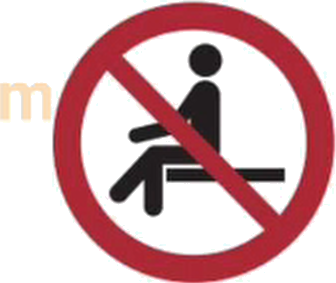
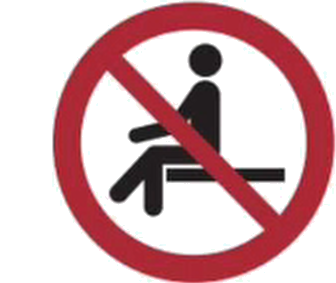
SET05: remove stray 'm' watermark from Q10 option 4

Changed region(s): [[0.0, 0.2827, 0.1488, 0.4523]]

diff --git a/ubt-new/sets/2025_SET05/data.js b/ubt-new/sets/2025_SET05/data.js
@@ -1,1 +1,1 @@
-UBT.set({"tag":"2025_SET05","title":"វិញ្ញាសាទី ៥","questions":[{"n":1,"prompt":"다음 그림을 보고 맞는 단어나 문장을 고르십시오.","body":"","options":[{"kind":"text","text":"상하입니다.","art":null},{"kind":"text","text":"좌우입니다.","art":null},{"kind":"text","text":"회전입니다.","art":null},{"kind":"text","text":"전원입니다.","art":null}],"a":3,"art":"q/01_stem.png?v=1ccdb0bb5de6d5ea"},{"n":2,"prompt":"다음 그림을 보고 맞는 단어나 문장을 고르십시오.","body":"","options":[{"kind":"text","text":"만두를 끓이고 있습니다.","art":null},{"kind":"text","text":"만두를 굽고 있습니다.","art":null},{"kind":"text","text":"만두를 튀기고 있습니다.","art":null},{"kind":"text","text":"만두를 찌고 있습니다.","art":null}],"a":4,"art":"q/02_stem.png?v=2c8dc11f68e5629e"},{"n":3,"prompt":"다음 질문에 답하십시오.","body":"다음 단어와 관계있는 것은 고르십시오.\n레버","options":[{"kind":"text","text":"밀다","art":null},{"kind":"text","text":"믿다","art":null},{"kind":"text","text":"쌓다","art":null},{"kind":"text","text":"뽑다","art":null}],"a":1,"art":null},{"n":4,"prompt":"다음 질문에 답하십시오.","body":"다음 단어의 비슷한말은 무엇입니까 ?\n투입하다","options":[{"kind":"text","text":"담다","art":null},{"kind":"text","text":"제거하다","art":null},{"kind":"text","text":"놓다","art":null},{"kind":"text","text":"종합하다","art":null}],"a":1,"art":null},{"n":5,"prompt":"빈칸에 들아갈 가장 알맞은 것을 고르십시오.","body":"작업장에서 발생하는 폐기물은 환경을______시키고 근로자\n의 건강을 해치는 원인이 됩니다.","options":[{"kind":"text","text":"질식","art":null},{"kind":"text","text":"중독","art":null},{"kind":"text","text":"오염","art":null},{"kind":"text","text":"경고","art":null}],"a":3,"art":null},{"n":6,"prompt":"빈칸에 들아갈 가장 알맞은 것을 고르십시오.","body":"가: 이 호피스텔은 방이 좁네요.\n나: 네 방은______월세가 싸요.","options":[{"kind":"text","text":"좁지만","art":null},{"kind":"text","text":"줍고","art":null},{"kind":"text","text":"좁을때","art":null},{"kind":"text","text":"줍거나","art":null}],"a":1,"art":null},{"n":7,"prompt":"빈칸에 들아갈 가장 알맞은 것을 고르십시오.","body":"토요일과 일요일에는 도로가 항상 복잡합니다. 주말에 약속이\n있다면 약속 시간에 늦지 않도록______출발하는 것이 좋\n습니다.","options":[{"kind":"text","text":"일찍","art":null},{"kind":"text","text":"이따가","art":null},{"kind":"text","text":"이미","art":null},{"kind":"text","text":"나중에","art":null}],"a":1,"art":null},{"n":8,"prompt":"빈칸에 들아갈 가장 알맞은 것을 고르십시오.","body":"가: 왜 모임에 안 왔어요? 모두가 기다리고 있었어요.\n나: 죄송해요. 감기가 너무______집에서 쉬었어요.","options":[{"kind":"text","text":"걸려서","art":null},{"kind":"text","text":"심해서","art":null},{"kind":"text","text":"걸리고","art":null},{"kind":"text","text":"심하고","art":null}],"a":2,"art":null},{"n":9,"prompt":"다음 질문에 답하십시오.","body":"밑줄 친 부분이 맞는 문장을 고르십시오.","options":[{"kind":"text","text":"표면의 물기를 주웠어요.","art":null,"marks":[{"type":"underline","start":8,"end":12}]},{"kind":"text","text":"선체 표면의 녹을 제거했어요.","art":null,"marks":[{"type":"underline","start":10,"end":15}]},{"kind":"text","text":"선체 내부의 온도를 처리했어요.","art":null,"marks":[{"type":"underline","start":11,"end":16}]},{"kind":"text","text":"오늘 사용할 도료를 조립했어요.","art":null,"marks":[{"type":"underline","start":11,"end":16}]}],"a":2,"art":null},{"n":10,"prompt":"다음 질문에 답하십시오.","body":"다음 내용과 관계있는 그림을 고르십시오.\n의자를 앞뒤로 흔들지 마세요.","options":[{"kind":"picture","text":"","art":"q/10_o1.png?v=43673204ffe30051"},{"kind":"picture","text":"","art":"q/10_o2.png?v=a80eee55736e943e"},{"kind":"picture","text":"","art":"q/10_o3.png?v=2d45663e3ec6cb6b"},{"kind":"picture","text":"","art":"q/10_o4.png?v=480ce330bec04488"}],"a":2,"art":null},{"n":11,"prompt":"다음 질문에 답하십시오.","body":"다음 글을 읽고 내용과 같은 것을 고르십시오.","options":[{"kind":"text","text":"유럽에 가는 여행자들이 가장 적습니다.","art":null},{"kind":"text","text":"미국에 가는 사람보다 일본에 가는 사람들이 많습니 다","art":null},{"kind":"text","text":"중앙아시아에 가는 사람들이 가장 많습니다.","art":null},{"kind":"text","text":"중국에 여행하는 관광객이 별로 없습니다.","art":null}],"a":2,"art":"q/11_stem.png?v=0d5fe5fea488ee6d"},{"n":12,"prompt":"다음 질문에 답하십시오.","body":"다음 글을 읽고 내용과 같은 것을 고르십시오.","options":[{"kind":"text","text":"2023 년에도 노동자는 회사를 바꾸지 않는다.","art":null},{"kind":"text","text":"두 번째로 많은 직원이 회사를 바꾸는 것은 2022 년입 니다.","art":null},{"kind":"text","text":"2020 년과 2022 년에 회사를 바꾸는 직원의 비율은 동일합니다.","art":null},{"kind":"text","text":"2021 년에 회사를 바꾸는 근로자의 수는 2023 년보 다 많습니다.","art":null}],"a":3,"art":"q/12_stem.png?v=c9c6dbfaf3aeee97"},{"n":13,"prompt":"빈칸에 들어갈 가장 알맞은 것을 고르십시오.","body":"친구가 근로 계약이 끝나서 내일 고향에 돌아간다고 해요. 그래서 오늘 아침에 친구에게 마지막으로__________.","options":[{"kind":"text","text":"축하했어요.","art":null},{"kind":"text","text":"칭찬했어요.","art":null},{"kind":"text","text":"환승했어요.","art":null},{"kind":"text","text":"환송했어요.","art":null}],"a":4,"art":null},{"n":14,"prompt":"빈칸에 들어갈 가장 알맞은 것을 고르십시오.","body":"지하철에서 내릴때 지갑을 안에 두고 내린 것 같습니다. 지금 바로 분실물 센터에 전화해서__________.","options":[{"kind":"text","text":"문이 한 것 같습니다.","art":null},{"kind":"text","text":"문의 하려고 합니다.","art":null},{"kind":"text","text":"선택한 것 같습니다.","art":null},{"kind":"text","text":"선택 하려고 합니다","art":null}],"a":2,"art":null},{"n":15,"prompt":"다음 글을 읽고 무엇에 대한 글인지 고르십시오.","body":"플라스틱과 고무 성형은 다양한 제품을 제조하는 데 사용되는 중요한 공정입니다. 이 공정은 원료를 원하는 형태로 가공하여 최종 제품을 만들어내는 과정을 포함하며, 자동차 부품, 전자기기, 의료기기, 가정용품 등 다양한 산업 분야에 활용됩니다.","options":[{"kind":"text","text":"플라스틱과 고무 성형 차이","art":null},{"kind":"text","text":"플라스틱과 고무 성형 공정","art":null},{"kind":"text","text":"플라스틱과 고무 종류","art":null},{"kind":"text","text":"플라스틱과 고무 폐기물","art":null}],"a":2,"art":null},{"n":16,"prompt":"다음 글을 읽고 무엇에 대한 글인지 고르십시오.","body":"호두는 세계적으로 사랑받는 견과류 중 하나로, 그 독특한 맛과 영양소 덕분에 건강식품으로 널리 알려져 있습니다. 호두는 신선도를 유지하기 위해 서늘하고 건조한 곳에 보관하는 것이 좋 수 있습니다. 하루 30g(약 한 줌)의 호두를 섭취하는 것이 적절하며, 과도한 섭취는 칼로리 섭취량 증가로 이어질 수 있으니 주의가 필요합니다.","options":[{"kind":"text","text":"좋은 호두 고르는 법","art":null},{"kind":"text","text":"호두를 보관 및 섭취 방법","art":null},{"kind":"text","text":"호두에 있는 영양","art":null},{"kind":"text","text":"호두를 먹는 의미","art":null}],"a":2,"art":null},{"n":17,"prompt":"다음 글을 읽고 내용과 같은 것을 고르십시오.","body":"그라인더는 빠른 회전으로 물체를 절단하거나 표면을 매끄럽게 가공하는 전동 공구입니다. 작업 시 큰 상해를 방지하려면 다음을 주의해야 합니다. 전원을 꽂기 전에 스위치가 꺼져 있는지 확인하고, 날 교체는 반드시 전원을 끈 상태에서 작업합니다. 보안경, 방진마스크 등을 착용하고 안전커버를 장착해야 하고 작업 주변을 정리하고 소화기를 비치합니다. 올바른 사용법을 익혀 안전을 지키세요.","options":[{"kind":"text","text":"그라인더 사용 전, 전원 스위치가 꺼져 있는지 확인해야 합니다.","art":null},{"kind":"text","text":"그라인더 작업 중에는 보호구를 착용할 필요가 없습니다.","art":null},{"kind":"text","text":"날 교체 시 전원을 켠 상태에서 빠르게 작업을 마무리해야 합니다.","art":null},{"kind":"text","text":"작업 중 주변 정리를 하지 않아도 화재 위험이 없습니다.","art":null}],"a":1,"art":null},{"n":18,"prompt":"다음 글을 읽고 내용과 같은 것을 고르십시오.","body":"친환경 에너지는 태양광, 풍력, 수력, 해양, 지열 에너지처럼 자연 자원을 활용해 지속 가능하게 생산되며, 환경 파괴와 온실가스 배출을 줄이는 데 기여합니다. 초기 설치 비용은 높지만, 운영 비용이 낮고 자원이 고갈되지 않는 장점이 있습니다. 세계 각국은 화석 연료 고갈과 기후 변화 문제 해결을 위해 친환경 에너지 개발에 힘쓰고 있으며, 이는 지속 가능한 미래를 만드는 열쇠가 됩니다.","options":[{"kind":"text","text":"친환경 에너지는 화석 연료보다 온실가스를 더 많이 배출합니다.","art":null},{"kind":"text","text":"풍력 에너지는 바람이 필요 없이 작동합니다.","art":null},{"kind":"text","text":"친환경 에너지는 자원이 금방 고갈되어 지속적으로 사 용할 수 없습니다.","art":null},{"kind":"text","text":"친환경 에너지는 자연 자원을 활용해 환경 영향을 최 소화합니다.","art":null}],"a":4,"art":null},{"n":19,"prompt":"다음 설명에 알맞은 어휘를 고르십시오.","body":"근로자가 업무 중 또는 업무와 관련된 활동을 수행하다가 발생한 부상, 질병, 장애 또는 사망과 같은 신체적ㆍ정신적 피해를 말합니다. 이는 주로 작업 환경의 위험 요소나 부적절한 안전 관리로 인해 발생하며, 근로자의 안전과 건강에 중대한 영향을 미칩니다.","options":[{"kind":"text","text":"자연 재해","art":null},{"kind":"text","text":"산업 재해","art":null},{"kind":"text","text":"교통 사고","art":null},{"kind":"text","text":"복합재해","art":null}],"a":2,"art":null},{"n":20,"prompt":"다음 설명에 알맞은 어휘를 고르십시오.","body":"사람의 나이가 70 세에 달하는 것을 의미합니다. 전통적으로 큰 의미를 가지는 나이로, 특히 동양 문화에서 중요한 생일 중 하나로 여겨집니다. 70 세는 인생의 중요한 이정표로, 건강과 삶의 경륜을 기념하는 행사나 축하가 이루어지기도 합니다.","options":[{"kind":"text","text":"돌","art":null},{"kind":"text","text":"환갑","art":null},{"kind":"text","text":"칠순","art":null},{"kind":"text","text":"백일","art":null}],"a":3,"art":null},{"n":21,"prompt":"다음을 듣고 빈칸에 알맞은 것을 고르십시오.","body":"______에 한국어를 공부해요.","options":[{"kind":"text","text":"목요일","art":null},{"kind":"text","text":"일요일","art":null},{"kind":"text","text":"토요일","art":null},{"kind":"text","text":"월요일","art":null}],"a":3,"m":"audio/21.mp3","art":null},{"n":22,"prompt":"다음을 듣고 빈칸에 알맞은 것을 고르십시오.","body":"2층으로______.","options":[{"kind":"text","text":"타야 돼요","art":null},{"kind":"text","text":"가야 돼요","art":null},{"kind":"text","text":"사야 돼요","art":null},{"kind":"text","text":"봐야 돼요","art":null}],"a":2,"m":"audio/22.mp3","art":null},{"n":23,"prompt":"들은 것을 고르십시오.","body":"","options":[{"kind":"picture","text":"","art":"q/23_o1.png?v=58da8dfcdaef4d6f"},{"kind":"picture","text":"","art":"q/23_o2.png?v=e5ba13e9fa9eb01b"},{"kind":"picture","text":"","art":"q/23_o3.png?v=ce2eb98abf6efd7f"},{"kind":"picture","text":"","art":"q/23_o4.png?v=6e4115b927020d3e"}],"a":2,"m":"audio/23.mp3","art":null},{"n":24,"prompt":"들은 것을 고르십시오.","body":"","options":[{"kind":"picture","text":"","art":"q/24_o1.png?v=313e7ccc109b0372"},{"kind":"picture","text":"","art":"q/24_o2.png?v=d543b7420a1df748"},{"kind":"picture","text":"","art":"q/24_o3.png?v=ca4f5af788d83626"},{"kind":"picture","text":"","art":"q/24_o4.png?v=8a860cefe05f6ae7"}],"a":1,"m":"audio/24.mp3","art":null},{"n":25,"prompt":"이것은 무엇입니까?","body":"","options":[{"kind":"spoken-answer","text":"항공권입니다.","art":null,"audio":"audio/25_o1.mp3?v=4899aa57aa785315"},{"kind":"spoken-answer","text":"상품권입니다.","art":null,"audio":"audio/25_o2.mp3?v=b5c57a9f6e8a4ce5"},{"kind":"spoken-answer","text":"여권입니다.","art":null,"audio":"audio/25_o3.mp3?v=9e3ebcb634800660"},{"kind":"spoken-answer","text":"식권입니다.","art":null,"audio":"audio/25_o4.mp3?v=ce5c76b304fb8a4e"}],"a":1,"art":"q/25_stem.png?v=f4158c25d33657ee","m":"audio/25.mp3"},{"n":26,"prompt":"여기는 어디입니까?","body":"","options":[{"kind":"spoken-answer","text":"교실입니다.","art":null,"audio":"audio/26_o1.mp3?v=7355700e6fdf5746"},{"kind":"spoken-answer","text":"거실입니다.","art":null,"audio":"audio/26_o2.mp3?v=ebe2c674b46fbab8"},{"kind":"spoken-answer","text":"객실입니다.","art":null,"audio":"audio/26_o3.mp3?v=d9c2886f2d64ff96"},{"kind":"spoken-answer","text":"침실입니다.","art":null,"audio":"audio/26_o4.mp3?v=030e4fca747626b4"}],"a":3,"art":"q/26_stem.png?v=6e01e79bab67ec58","m":"audio/26.mp3"},{"n":27,"prompt":"이 사람은 무엇을 하고 있습니까?","body":"","options":[{"kind":"spoken-answer","text":"양파를 썰고 있습니다.","art":null,"audio":"audio/27_o1.mp3?v=40e4b3744583661c"},{"kind":"spoken-answer","text":"양파를 씻고 있습니다.","art":null,"audio":"audio/27_o2.mp3?v=b73934b8b4ede396"},{"kind":"spoken-answer","text":"양파를 담고 있습니다.","art":null,"audio":"audio/27_o3.mp3?v=7b81e53ff57b8ff6"},{"kind":"spoken-answer","text":"양파를 볶고 있습니다.","art":null,"audio":"audio/27_o4.mp3?v=08a4864515491af2"}],"a":3,"art":"q/27_stem.png?v=bcd8b831238d37cc","m":"audio/27.mp3"},{"n":28,"prompt":"수분 크림이 얼마나 있습니까?","body":"","options":[{"kind":"spoken-answer","text":"세 개 있습니다.","art":null,"audio":"audio/28_o1.mp3?v=a76bf5f03a7689c2"},{"kind":"spoken-answer","text":"세 통 있습니다.","art":null,"audio":"audio/28_o2.mp3?v=763da3a7ed51db49"},{"kind":"spoken-answer","text":"네 개 있습니다.","art":null,"audio":"audio/28_o3.mp3?v=0baad4e0b451fbb0"},{"kind":"spoken-answer","text":"네 통 있습니다.","art":null,"audio":"audio/28_o4.mp3?v=8b57ff765e5bdf05"}],"a":2,"art":"q/28_stem.png?v=8a3083db312bf2eb","m":"audio/28.mp3"},{"n":29,"prompt":"꽃집은 어디에 있습니까?","body":"","options":[{"kind":"spoken-answer","text":"약국 아래에 있습니다.","art":null,"audio":"audio/29_o1.mp3?v=98038bcbbcd40fc6"},{"kind":"spoken-answer","text":"공원 옆에 있습니다.","art":null,"audio":"audio/29_o2.mp3?v=15fd23f99f16229d"},{"kind":"spoken-answer","text":"병원 위에 있습니다.","art":null,"audio":"audio/29_o3.mp3?v=9fc69150d8028d22"},{"kind":"spoken-answer","text":"은행 뒤에 있습니다.","art":null,"audio":"audio/29_o4.mp3?v=0e45da4cc5594b4e"}],"a":2,"art":"q/29_stem.png?v=d1aa11cf72e9528e","m":"audio/29.mp3"},{"n":30,"prompt":"다음을 듣고 질문에 알맞은 대답을 고르십시오.","body":"","options":[{"kind":"text","text":"그럼 일기예보를 확인해야 겠네요.","art":null},{"kind":"text","text":"그렇게라도 하는 게 더 좋을 것 같아요.","art":null},{"kind":"text","text":"체육 대회 장소를 정했어요?","art":null},{"kind":"text","text":"시간이 괜찮으니까 천천히 하면 돼요.","art":null}],"a":2,"m":"audio/30.mp3","art":null},{"n":31,"prompt":"다음을 듣고 질문에 알맞은 대답을 고르십시오.","body":"","options":[{"kind":"text","text":"한국에 오기 전에 한국말을 배웠어요.","art":null},{"kind":"text","text":"한국 회사에서 일하는 게 힘들었어요.","art":null},{"kind":"text","text":"양식장에서 새우를 길렀어요.","art":null},{"kind":"text","text":"고향에서는 작은 공장들이 많아요.","art":null}],"a":3,"m":"audio/31.mp3","art":null},{"n":32,"prompt":"다음을 듣고 질문에 알맞은 대답을 고르십시오.","body":"","options":[{"kind":"text","text":"맞아요, 인터넷이 있으면 편리할게요.","art":null},{"kind":"text","text":"맞아요, 저도 유투브를 보는 걸 좋아해요.","art":null},{"kind":"text","text":"맞아요, 유투브에서 볼 수 있어요.","art":null},{"kind":"text","text":"맞아요, 일하는 동안 유투브를 보지 마요.","art":null}],"a":2,"m":"audio/32.mp3","art":null},{"n":33,"prompt":"다음을 듣고 질문에 알맞은 대답을 고르십시오.","body":"","options":[{"kind":"text","text":"월급이 올라서 기분이 좋아요.","art":null},{"kind":"text","text":"기분이 안 좋아서 잠깐 쉬고 싶어요.","art":null},{"kind":"text","text":"일이 많아서 정신이 없어서요.","art":null},{"kind":"text","text":"좋은 표정이 보니까 마음이 편하네요.","art":null}],"a":3,"m":"audio/33.mp3","art":null},{"n":34,"prompt":"다음을 듣고 이어지는 말을 고르십시오.","body":"","options":[{"kind":"text","text":"안전모가 작아서 바꾸려고 해요.","art":null},{"kind":"text","text":"안전모를 착용했으니까 괜찮을게요.","art":null},{"kind":"text","text":"일이 끝난 후에는 안전모를 보관하세요.","art":null},{"kind":"text","text":"날씨가 너무 더워서 벗었습니다.","art":null}],"a":4,"m":"audio/34.mp3","art":null},{"n":35,"prompt":"다음을 듣고 이어지는 말을 고르십시오.","body":"","options":[{"kind":"text","text":"조금 늦게까지 퇴근했어요.","art":null},{"kind":"text","text":"밤에 일하다가 손이 다쳤어요.","art":null},{"kind":"text","text":"일주일 동안 주간 근무만 했어요.","art":null},{"kind":"text","text":"야간이 많아서 월급이 많아졌어요.","art":null}],"a":1,"m":"audio/35.mp3","art":null},{"n":36,"prompt":"잘 듣고 들은 내용과 관계있는 그림을 고르십시오.","body":"","options":[{"kind":"picture","text":"","art":"q/36_o1.png?v=fa3ec94c47e3156b"},{"kind":"picture","text":"","art":"q/36_o2.png?v=4ef9687e14b5035d"},{"kind":"picture","text":"","art":"q/36_o3.png?v=4ce2cfdc6fef8834"},{"kind":"picture","text":"","art":"q/36_o4.png?v=ade26638f48c2aae"}],"a":2,"m":"audio/36.mp3","art":null},{"n":37,"prompt":"잘 듣고 들은 내용과 관계있는 그림을 고르십시오.","body":"","options":[{"kind":"picture","text":"","art":"q/37_o1.png?v=e258bebd622cec2b"},{"kind":"picture","text":"","art":"q/37_o2.png?v=e33ee06c92a03829"},{"kind":"picture","text":"","art":"q/37_o3.png?v=897fa2c261f24252"},{"kind":"picture","text":"","art":"q/37_o4.png?v=4059f58cae850196"}],"a":2,"m":"audio/37.mp3","art":null},{"n":38,"prompt":"이야기를 듣고 질문에 알맞은 대답을 고르십시오.","body":"여자는 지금 왜 여기에 왔습니까?","options":[{"kind":"text","text":"아파트를 팔려고","art":null},{"kind":"text","text":"아파트를 구하려고","art":null},{"kind":"text","text":"아파트를 바꾸려고","art":null},{"kind":"text","text":"아파트를 사려고","art":null}],"a":2,"m":"audio/38.mp3","art":null},{"n":39,"prompt":"이야기를 듣고 질문에 알맞은 대답을 고르십시오.","body":"대화를 듣고 내용과 같은 것을 고르십시오.","options":[{"kind":"text","text":"남자는 혼자 기차를 탑니다.","art":null},{"kind":"text","text":"여자는 친구와 함께 부산에 갑니다.","art":null},{"kind":"text","text":"여자는 기차표가 다 팔렸다고 말했습니다.","art":null},{"kind":"text","text":"남자는 부산에 가는 기차표를 두 장 삽니다.","art":null}],"a":4,"m":"audio/39.mp3","art":null},{"n":40,"prompt":"이야기를 듣고 질문에 알맞은 대답을 고르십시오.","body":"대화를 듣고 내용과 같은 것을 고르십시오.","options":[{"kind":"text","text":"여자는 내일 면접을 봅니다.","art":null},{"kind":"text","text":"남자는 집에 좋은 구두가 많습니다.","art":null},{"kind":"text","text":"여자는 백화점에 가는 중이었습니다.","art":null},{"kind":"text","text":"남자는 면접에 신고 갈 구두를 살 겁니다.","art":null}],"a":4,"m":"audio/40.mp3","art":null}]});
+UBT.set({"tag":"2025_SET05","title":"វិញ្ញាសាទី ៥","questions":[{"n":1,"prompt":"다음 그림을 보고 맞는 단어나 문장을 고르십시오.","body":"","options":[{"kind":"text","text":"상하입니다.","art":null},{"kind":"text","text":"좌우입니다.","art":null},{"kind":"text","text":"회전입니다.","art":null},{"kind":"text","text":"전원입니다.","art":null}],"a":3,"art":"q/01_stem.png?v=1ccdb0bb5de6d5ea"},{"n":2,"prompt":"다음 그림을 보고 맞는 단어나 문장을 고르십시오.","body":"","options":[{"kind":"text","text":"만두를 끓이고 있습니다.","art":null},{"kind":"text","text":"만두를 굽고 있습니다.","art":null},{"kind":"text","text":"만두를 튀기고 있습니다.","art":null},{"kind":"text","text":"만두를 찌고 있습니다.","art":null}],"a":4,"art":"q/02_stem.png?v=2c8dc11f68e5629e"},{"n":3,"prompt":"다음 질문에 답하십시오.","body":"다음 단어와 관계있는 것은 고르십시오.\n레버","options":[{"kind":"text","text":"밀다","art":null},{"kind":"text","text":"믿다","art":null},{"kind":"text","text":"쌓다","art":null},{"kind":"text","text":"뽑다","art":null}],"a":1,"art":null},{"n":4,"prompt":"다음 질문에 답하십시오.","body":"다음 단어의 비슷한말은 무엇입니까 ?\n투입하다","options":[{"kind":"text","text":"담다","art":null},{"kind":"text","text":"제거하다","art":null},{"kind":"text","text":"놓다","art":null},{"kind":"text","text":"종합하다","art":null}],"a":1,"art":null},{"n":5,"prompt":"빈칸에 들아갈 가장 알맞은 것을 고르십시오.","body":"작업장에서 발생하는 폐기물은 환경을______시키고 근로자\n의 건강을 해치는 원인이 됩니다.","options":[{"kind":"text","text":"질식","art":null},{"kind":"text","text":"중독","art":null},{"kind":"text","text":"오염","art":null},{"kind":"text","text":"경고","art":null}],"a":3,"art":null},{"n":6,"prompt":"빈칸에 들아갈 가장 알맞은 것을 고르십시오.","body":"가: 이 호피스텔은 방이 좁네요.\n나: 네 방은______월세가 싸요.","options":[{"kind":"text","text":"좁지만","art":null},{"kind":"text","text":"줍고","art":null},{"kind":"text","text":"좁을때","art":null},{"kind":"text","text":"줍거나","art":null}],"a":1,"art":null},{"n":7,"prompt":"빈칸에 들아갈 가장 알맞은 것을 고르십시오.","body":"토요일과 일요일에는 도로가 항상 복잡합니다. 주말에 약속이\n있다면 약속 시간에 늦지 않도록______출발하는 것이 좋\n습니다.","options":[{"kind":"text","text":"일찍","art":null},{"kind":"text","text":"이따가","art":null},{"kind":"text","text":"이미","art":null},{"kind":"text","text":"나중에","art":null}],"a":1,"art":null},{"n":8,"prompt":"빈칸에 들아갈 가장 알맞은 것을 고르십시오.","body":"가: 왜 모임에 안 왔어요? 모두가 기다리고 있었어요.\n나: 죄송해요. 감기가 너무______집에서 쉬었어요.","options":[{"kind":"text","text":"걸려서","art":null},{"kind":"text","text":"심해서","art":null},{"kind":"text","text":"걸리고","art":null},{"kind":"text","text":"심하고","art":null}],"a":2,"art":null},{"n":9,"prompt":"다음 질문에 답하십시오.","body":"밑줄 친 부분이 맞는 문장을 고르십시오.","options":[{"kind":"text","text":"표면의 물기를 주웠어요.","art":null,"marks":[{"type":"underline","start":8,"end":12}]},{"kind":"text","text":"선체 표면의 녹을 제거했어요.","art":null,"marks":[{"type":"underline","start":10,"end":15}]},{"kind":"text","text":"선체 내부의 온도를 처리했어요.","art":null,"marks":[{"type":"underline","start":11,"end":16}]},{"kind":"text","text":"오늘 사용할 도료를 조립했어요.","art":null,"marks":[{"type":"underline","start":11,"end":16}]}],"a":2,"art":null},{"n":10,"prompt":"다음 질문에 답하십시오.","body":"다음 내용과 관계있는 그림을 고르십시오.\n의자를 앞뒤로 흔들지 마세요.","options":[{"kind":"picture","text":"","art":"q/10_o1.png?v=43673204ffe30051"},{"kind":"picture","text":"","art":"q/10_o2.png?v=a80eee55736e943e"},{"kind":"picture","text":"","art":"q/10_o3.png?v=2d45663e3ec6cb6b"},{"kind":"picture","text":"","art":"q/10_o4.png?v=26434cd5b51ebcef"}],"a":2,"art":null},{"n":11,"prompt":"다음 질문에 답하십시오.","body":"다음 글을 읽고 내용과 같은 것을 고르십시오.","options":[{"kind":"text","text":"유럽에 가는 여행자들이 가장 적습니다.","art":null},{"kind":"text","text":"미국에 가는 사람보다 일본에 가는 사람들이 많습니 다","art":null},{"kind":"text","text":"중앙아시아에 가는 사람들이 가장 많습니다.","art":null},{"kind":"text","text":"중국에 여행하는 관광객이 별로 없습니다.","art":null}],"a":2,"art":"q/11_stem.png?v=0d5fe5fea488ee6d"},{"n":12,"prompt":"다음 질문에 답하십시오.","body":"다음 글을 읽고 내용과 같은 것을 고르십시오.","options":[{"kind":"text","text":"2023 년에도 노동자는 회사를 바꾸지 않는다.","art":null},{"kind":"text","text":"두 번째로 많은 직원이 회사를 바꾸는 것은 2022 년입 니다.","art":null},{"kind":"text","text":"2020 년과 2022 년에 회사를 바꾸는 직원의 비율은 동일합니다.","art":null},{"kind":"text","text":"2021 년에 회사를 바꾸는 근로자의 수는 2023 년보 다 많습니다.","art":null}],"a":3,"art":"q/12_stem.png?v=c9c6dbfaf3aeee97"},{"n":13,"prompt":"빈칸에 들어갈 가장 알맞은 것을 고르십시오.","body":"친구가 근로 계약이 끝나서 내일 고향에 돌아간다고 해요. 그래서 오늘 아침에 친구에게 마지막으로__________.","options":[{"kind":"text","text":"축하했어요.","art":null},{"kind":"text","text":"칭찬했어요.","art":null},{"kind":"text","text":"환승했어요.","art":null},{"kind":"text","text":"환송했어요.","art":null}],"a":4,"art":null},{"n":14,"prompt":"빈칸에 들어갈 가장 알맞은 것을 고르십시오.","body":"지하철에서 내릴때 지갑을 안에 두고 내린 것 같습니다. 지금 바로 분실물 센터에 전화해서__________.","options":[{"kind":"text","text":"문이 한 것 같습니다.","art":null},{"kind":"text","text":"문의 하려고 합니다.","art":null},{"kind":"text","text":"선택한 것 같습니다.","art":null},{"kind":"text","text":"선택 하려고 합니다","art":null}],"a":2,"art":null},{"n":15,"prompt":"다음 글을 읽고 무엇에 대한 글인지 고르십시오.","body":"플라스틱과 고무 성형은 다양한 제품을 제조하는 데 사용되는 중요한 공정입니다. 이 공정은 원료를 원하는 형태로 가공하여 최종 제품을 만들어내는 과정을 포함하며, 자동차 부품, 전자기기, 의료기기, 가정용품 등 다양한 산업 분야에 활용됩니다.","options":[{"kind":"text","text":"플라스틱과 고무 성형 차이","art":null},{"kind":"text","text":"플라스틱과 고무 성형 공정","art":null},{"kind":"text","text":"플라스틱과 고무 종류","art":null},{"kind":"text","text":"플라스틱과 고무 폐기물","art":null}],"a":2,"art":null},{"n":16,"prompt":"다음 글을 읽고 무엇에 대한 글인지 고르십시오.","body":"호두는 세계적으로 사랑받는 견과류 중 하나로, 그 독특한 맛과 영양소 덕분에 건강식품으로 널리 알려져 있습니다. 호두는 신선도를 유지하기 위해 서늘하고 건조한 곳에 보관하는 것이 좋 수 있습니다. 하루 30g(약 한 줌)의 호두를 섭취하는 것이 적절하며, 과도한 섭취는 칼로리 섭취량 증가로 이어질 수 있으니 주의가 필요합니다.","options":[{"kind":"text","text":"좋은 호두 고르는 법","art":null},{"kind":"text","text":"호두를 보관 및 섭취 방법","art":null},{"kind":"text","text":"호두에 있는 영양","art":null},{"kind":"text","text":"호두를 먹는 의미","art":null}],"a":2,"art":null},{"n":17,"prompt":"다음 글을 읽고 내용과 같은 것을 고르십시오.","body":"그라인더는 빠른 회전으로 물체를 절단하거나 표면을 매끄럽게 가공하는 전동 공구입니다. 작업 시 큰 상해를 방지하려면 다음을 주의해야 합니다. 전원을 꽂기 전에 스위치가 꺼져 있는지 확인하고, 날 교체는 반드시 전원을 끈 상태에서 작업합니다. 보안경, 방진마스크 등을 착용하고 안전커버를 장착해야 하고 작업 주변을 정리하고 소화기를 비치합니다. 올바른 사용법을 익혀 안전을 지키세요.","options":[{"kind":"text","text":"그라인더 사용 전, 전원 스위치가 꺼져 있는지 확인해야 합니다.","art":null},{"kind":"text","text":"그라인더 작업 중에는 보호구를 착용할 필요가 없습니다.","art":null},{"kind":"text","text":"날 교체 시 전원을 켠 상태에서 빠르게 작업을 마무리해야 합니다.","art":null},{"kind":"text","text":"작업 중 주변 정리를 하지 않아도 화재 위험이 없습니다.","art":null}],"a":1,"art":null},{"n":18,"prompt":"다음 글을 읽고 내용과 같은 것을 고르십시오.","body":"친환경 에너지는 태양광, 풍력, 수력, 해양, 지열 에너지처럼 자연 자원을 활용해 지속 가능하게 생산되며, 환경 파괴와 온실가스 배출을 줄이는 데 기여합니다. 초기 설치 비용은 높지만, 운영 비용이 낮고 자원이 고갈되지 않는 장점이 있습니다. 세계 각국은 화석 연료 고갈과 기후 변화 문제 해결을 위해 친환경 에너지 개발에 힘쓰고 있으며, 이는 지속 가능한 미래를 만드는 열쇠가 됩니다.","options":[{"kind":"text","text":"친환경 에너지는 화석 연료보다 온실가스를 더 많이 배출합니다.","art":null},{"kind":"text","text":"풍력 에너지는 바람이 필요 없이 작동합니다.","art":null},{"kind":"text","text":"친환경 에너지는 자원이 금방 고갈되어 지속적으로 사 용할 수 없습니다.","art":null},{"kind":"text","text":"친환경 에너지는 자연 자원을 활용해 환경 영향을 최 소화합니다.","art":null}],"a":4,"art":null},{"n":19,"prompt":"다음 설명에 알맞은 어휘를 고르십시오.","body":"근로자가 업무 중 또는 업무와 관련된 활동을 수행하다가 발생한 부상, 질병, 장애 또는 사망과 같은 신체적ㆍ정신적 피해를 말합니다. 이는 주로 작업 환경의 위험 요소나 부적절한 안전 관리로 인해 발생하며, 근로자의 안전과 건강에 중대한 영향을 미칩니다.","options":[{"kind":"text","text":"자연 재해","art":null},{"kind":"text","text":"산업 재해","art":null},{"kind":"text","text":"교통 사고","art":null},{"kind":"text","text":"복합재해","art":null}],"a":2,"art":null},{"n":20,"prompt":"다음 설명에 알맞은 어휘를 고르십시오.","body":"사람의 나이가 70 세에 달하는 것을 의미합니다. 전통적으로 큰 의미를 가지는 나이로, 특히 동양 문화에서 중요한 생일 중 하나로 여겨집니다. 70 세는 인생의 중요한 이정표로, 건강과 삶의 경륜을 기념하는 행사나 축하가 이루어지기도 합니다.","options":[{"kind":"text","text":"돌","art":null},{"kind":"text","text":"환갑","art":null},{"kind":"text","text":"칠순","art":null},{"kind":"text","text":"백일","art":null}],"a":3,"art":null},{"n":21,"prompt":"다음을 듣고 빈칸에 알맞은 것을 고르십시오.","body":"______에 한국어를 공부해요.","options":[{"kind":"text","text":"목요일","art":null},{"kind":"text","text":"일요일","art":null},{"kind":"text","text":"토요일","art":null},{"kind":"text","text":"월요일","art":null}],"a":3,"m":"audio/21.mp3","art":null},{"n":22,"prompt":"다음을 듣고 빈칸에 알맞은 것을 고르십시오.","body":"2층으로______.","options":[{"kind":"text","text":"타야 돼요","art":null},{"kind":"text","text":"가야 돼요","art":null},{"kind":"text","text":"사야 돼요","art":null},{"kind":"text","text":"봐야 돼요","art":null}],"a":2,"m":"audio/22.mp3","art":null},{"n":23,"prompt":"들은 것을 고르십시오.","body":"","options":[{"kind":"picture","text":"","art":"q/23_o1.png?v=58da8dfcdaef4d6f"},{"kind":"picture","text":"","art":"q/23_o2.png?v=e5ba13e9fa9eb01b"},{"kind":"picture","text":"","art":"q/23_o3.png?v=ce2eb98abf6efd7f"},{"kind":"picture","text":"","art":"q/23_o4.png?v=6e4115b927020d3e"}],"a":2,"m":"audio/23.mp3","art":null},{"n":24,"prompt":"들은 것을 고르십시오.","body":"","options":[{"kind":"picture","text":"","art":"q/24_o1.png?v=313e7ccc109b0372"},{"kind":"picture","text":"","art":"q/24_o2.png?v=d543b7420a1df748"},{"kind":"picture","text":"","art":"q/24_o3.png?v=ca4f5af788d83626"},{"kind":"picture","text":"","art":"q/24_o4.png?v=8a860cefe05f6ae7"}],"a":1,"m":"audio/24.mp3","art":null},{"n":25,"prompt":"이것은 무엇입니까?","body":"","options":[{"kind":"spoken-answer","text":"항공권입니다.","art":null,"audio":"audio/25_o1.mp3?v=4899aa57aa785315"},{"kind":"spoken-answer","text":"상품권입니다.","art":null,"audio":"audio/25_o2.mp3?v=b5c57a9f6e8a4ce5"},{"kind":"spoken-answer","text":"여권입니다.","art":null,"audio":"audio/25_o3.mp3?v=9e3ebcb634800660"},{"kind":"spoken-answer","text":"식권입니다.","art":null,"audio":"audio/25_o4.mp3?v=ce5c76b304fb8a4e"}],"a":1,"art":"q/25_stem.png?v=f4158c25d33657ee","m":"audio/25.mp3"},{"n":26,"prompt":"여기는 어디입니까?","body":"","options":[{"kind":"spoken-answer","text":"교실입니다.","art":null,"audio":"audio/26_o1.mp3?v=7355700e6fdf5746"},{"kind":"spoken-answer","text":"거실입니다.","art":null,"audio":"audio/26_o2.mp3?v=ebe2c674b46fbab8"},{"kind":"spoken-answer","text":"객실입니다.","art":null,"audio":"audio/26_o3.mp3?v=d9c2886f2d64ff96"},{"kind":"spoken-answer","text":"침실입니다.","art":null,"audio":"audio/26_o4.mp3?v=030e4fca747626b4"}],"a":3,"art":"q/26_stem.png?v=6e01e79bab67ec58","m":"audio/26.mp3"},{"n":27,"prompt":"이 사람은 무엇을 하고 있습니까?","body":"","options":[{"kind":"spoken-answer","text":"양파를 썰고 있습니다.","art":null,"audio":"audio/27_o1.mp3?v=40e4b3744583661c"},{"kind":"spoken-answer","text":"양파를 씻고 있습니다.","art":null,"audio":"audio/27_o2.mp3?v=b73934b8b4ede396"},{"kind":"spoken-answer","text":"양파를 담고 있습니다.","art":null,"audio":"audio/27_o3.mp3?v=7b81e53ff57b8ff6"},{"kind":"spoken-answer","text":"양파를 볶고 있습니다.","art":null,"audio":"audio/27_o4.mp3?v=08a4864515491af2"}],"a":3,"art":"q/27_stem.png?v=bcd8b831238d37cc","m":"audio/27.mp3"},{"n":28,"prompt":"수분 크림이 얼마나 있습니까?","body":"","options":[{"kind":"spoken-answer","text":"세 개 있습니다.","art":null,"audio":"audio/28_o1.mp3?v=a76bf5f03a7689c2"},{"kind":"spoken-answer","text":"세 통 있습니다.","art":null,"audio":"audio/28_o2.mp3?v=763da3a7ed51db49"},{"kind":"spoken-answer","text":"네 개 있습니다.","art":null,"audio":"audio/28_o3.mp3?v=0baad4e0b451fbb0"},{"kind":"spoken-answer","text":"네 통 있습니다.","art":null,"audio":"audio/28_o4.mp3?v=8b57ff765e5bdf05"}],"a":2,"art":"q/28_stem.png?v=8a3083db312bf2eb","m":"audio/28.mp3"},{"n":29,"prompt":"꽃집은 어디에 있습니까?","body":"","options":[{"kind":"spoken-answer","text":"약국 아래에 있습니다.","art":null,"audio":"audio/29_o1.mp3?v=98038bcbbcd40fc6"},{"kind":"spoken-answer","text":"공원 옆에 있습니다.","art":null,"audio":"audio/29_o2.mp3?v=15fd23f99f16229d"},{"kind":"spoken-answer","text":"병원 위에 있습니다.","art":null,"audio":"audio/29_o3.mp3?v=9fc69150d8028d22"},{"kind":"spoken-answer","text":"은행 뒤에 있습니다.","art":null,"audio":"audio/29_o4.mp3?v=0e45da4cc5594b4e"}],"a":2,"art":"q/29_stem.png?v=d1aa11cf72e9528e","m":"audio/29.mp3"},{"n":30,"prompt":"다음을 듣고 질문에 알맞은 대답을 고르십시오.","body":"","options":[{"kind":"text","text":"그럼 일기예보를 확인해야 겠네요.","art":null},{"kind":"text","text":"그렇게라도 하는 게 더 좋을 것 같아요.","art":null},{"kind":"text","text":"체육 대회 장소를 정했어요?","art":null},{"kind":"text","text":"시간이 괜찮으니까 천천히 하면 돼요.","art":null}],"a":2,"m":"audio/30.mp3","art":null},{"n":31,"prompt":"다음을 듣고 질문에 알맞은 대답을 고르십시오.","body":"","options":[{"kind":"text","text":"한국에 오기 전에 한국말을 배웠어요.","art":null},{"kind":"text","text":"한국 회사에서 일하는 게 힘들었어요.","art":null},{"kind":"text","text":"양식장에서 새우를 길렀어요.","art":null},{"kind":"text","text":"고향에서는 작은 공장들이 많아요.","art":null}],"a":3,"m":"audio/31.mp3","art":null},{"n":32,"prompt":"다음을 듣고 질문에 알맞은 대답을 고르십시오.","body":"","options":[{"kind":"text","text":"맞아요, 인터넷이 있으면 편리할게요.","art":null},{"kind":"text","text":"맞아요, 저도 유투브를 보는 걸 좋아해요.","art":null},{"kind":"text","text":"맞아요, 유투브에서 볼 수 있어요.","art":null},{"kind":"text","text":"맞아요, 일하는 동안 유투브를 보지 마요.","art":null}],"a":2,"m":"audio/32.mp3","art":null},{"n":33,"prompt":"다음을 듣고 질문에 알맞은 대답을 고르십시오.","body":"","options":[{"kind":"text","text":"월급이 올라서 기분이 좋아요.","art":null},{"kind":"text","text":"기분이 안 좋아서 잠깐 쉬고 싶어요.","art":null},{"kind":"text","text":"일이 많아서 정신이 없어서요.","art":null},{"kind":"text","text":"좋은 표정이 보니까 마음이 편하네요.","art":null}],"a":3,"m":"audio/33.mp3","art":null},{"n":34,"prompt":"다음을 듣고 이어지는 말을 고르십시오.","body":"","options":[{"kind":"text","text":"안전모가 작아서 바꾸려고 해요.","art":null},{"kind":"text","text":"안전모를 착용했으니까 괜찮을게요.","art":null},{"kind":"text","text":"일이 끝난 후에는 안전모를 보관하세요.","art":null},{"kind":"text","text":"날씨가 너무 더워서 벗었습니다.","art":null}],"a":4,"m":"audio/34.mp3","art":null},{"n":35,"prompt":"다음을 듣고 이어지는 말을 고르십시오.","body":"","options":[{"kind":"text","text":"조금 늦게까지 퇴근했어요.","art":null},{"kind":"text","text":"밤에 일하다가 손이 다쳤어요.","art":null},{"kind":"text","text":"일주일 동안 주간 근무만 했어요.","art":null},{"kind":"text","text":"야간이 많아서 월급이 많아졌어요.","art":null}],"a":1,"m":"audio/35.mp3","art":null},{"n":36,"prompt":"잘 듣고 들은 내용과 관계있는 그림을 고르십시오.","body":"","options":[{"kind":"picture","text":"","art":"q/36_o1.png?v=fa3ec94c47e3156b"},{"kind":"picture","text":"","art":"q/36_o2.png?v=4ef9687e14b5035d"},{"kind":"picture","text":"","art":"q/36_o3.png?v=4ce2cfdc6fef8834"},{"kind":"picture","text":"","art":"q/36_o4.png?v=ade26638f48c2aae"}],"a":2,"m":"audio/36.mp3","art":null},{"n":37,"prompt":"잘 듣고 들은 내용과 관계있는 그림을 고르십시오.","body":"","options":[{"kind":"picture","text":"","art":"q/37_o1.png?v=e258bebd622cec2b"},{"kind":"picture","text":"","art":"q/37_o2.png?v=e33ee06c92a03829"},{"kind":"picture","text":"","art":"q/37_o3.png?v=897fa2c261f24252"},{"kind":"picture","text":"","art":"q/37_o4.png?v=4059f58cae850196"}],"a":2,"m":"audio/37.mp3","art":null},{"n":38,"prompt":"이야기를 듣고 질문에 알맞은 대답을 고르십시오.","body":"여자는 지금 왜 여기에 왔습니까?","options":[{"kind":"text","text":"아파트를 팔려고","art":null},{"kind":"text","text":"아파트를 구하려고","art":null},{"kind":"text","text":"아파트를 바꾸려고","art":null},{"kind":"text","text":"아파트를 사려고","art":null}],"a":2,"m":"audio/38.mp3","art":null},{"n":39,"prompt":"이야기를 듣고 질문에 알맞은 대답을 고르십시오.","body":"대화를 듣고 내용과 같은 것을 고르십시오.","options":[{"kind":"text","text":"남자는 혼자 기차를 탑니다.","art":null},{"kind":"text","text":"여자는 친구와 함께 부산에 갑니다.","art":null},{"kind":"text","text":"여자는 기차표가 다 팔렸다고 말했습니다.","art":null},{"kind":"text","text":"남자는 부산에 가는 기차표를 두 장 삽니다.","art":null}],"a":4,"m":"audio/39.mp3","art":null},{"n":40,"prompt":"이야기를 듣고 질문에 알맞은 대답을 고르십시오.","body":"대화를 듣고 내용과 같은 것을 고르십시오.","options":[{"kind":"text","text":"여자는 내일 면접을 봅니다.","art":null},{"kind":"text","text":"남자는 집에 좋은 구두가 많습니다.","art":null},{"kind":"text","text":"여자는 백화점에 가는 중이었습니다.","art":null},{"kind":"text","text":"남자는 면접에 신고 갈 구두를 살 겁니다.","art":null}],"a":4,"m":"audio/40.mp3","art":null}]});
